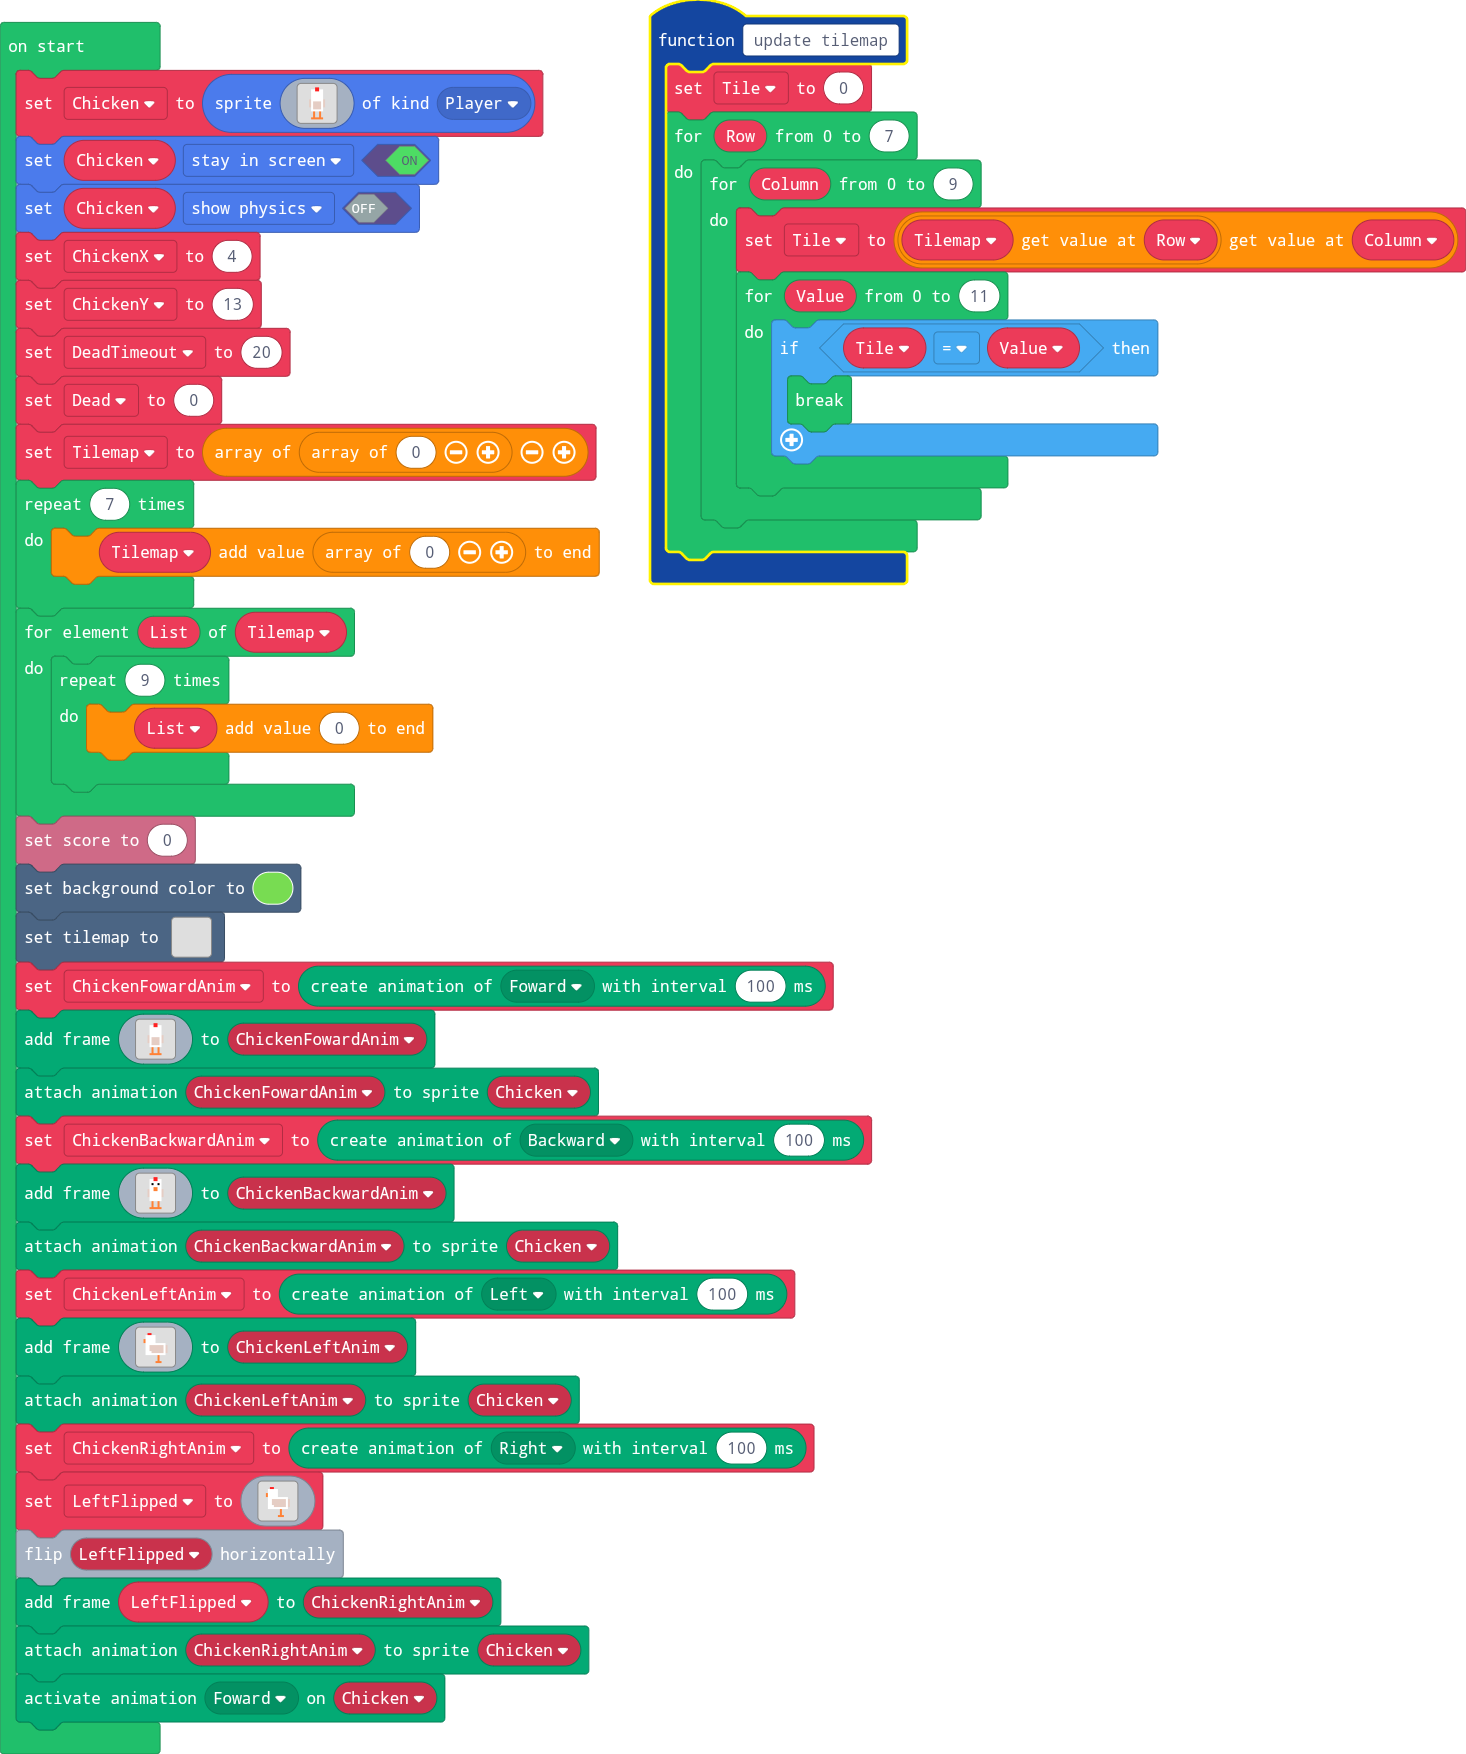
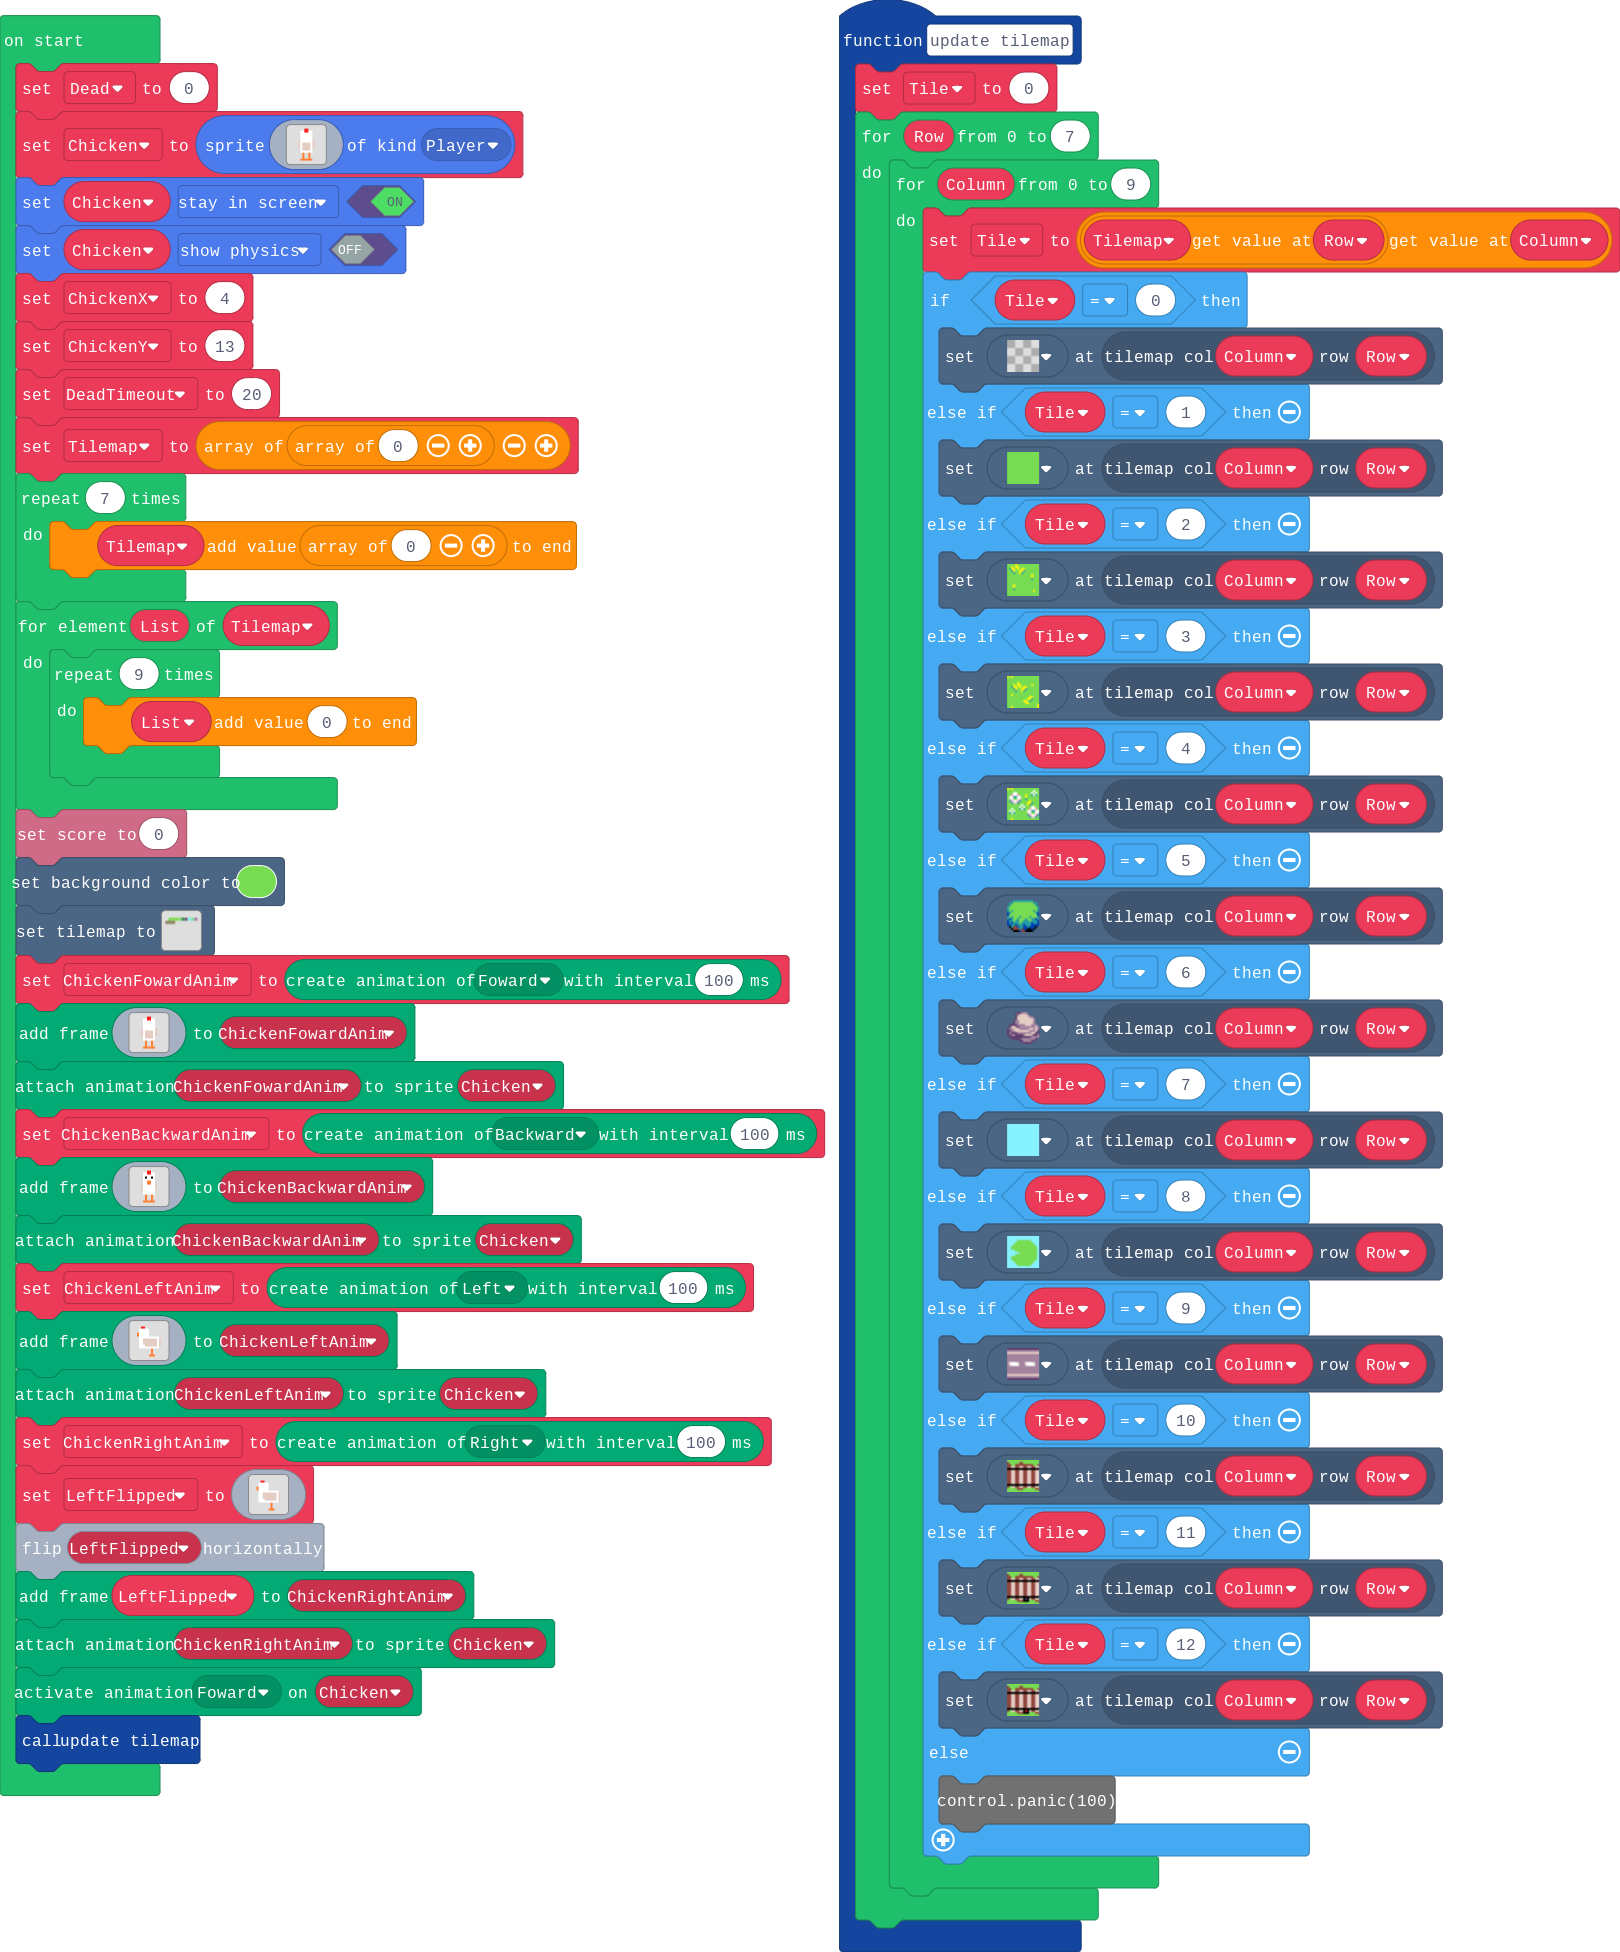
Finished update tilemap function

diff --git a/main.ts b/main.ts
@@ -7,21 +7,181 @@ enum ActionKind {
     Idle,
     Jumping
 }
+namespace myTiles {
+    //% blockIdentity=images._tile
+    export const tile0 = img`
+. . . . . . . . . . . . . . . . 
+. . . . . . . . . . . . . . . . 
+. . . . . . . . . . . . . . . . 
+. . . . . . . . . . . . . . . . 
+. . . . . . . . . . . . . . . . 
+. . . . . . . . . . . . . . . . 
+. . . . . . . . . . . . . . . . 
+. . . . . . . . . . . . . . . . 
+. . . . . . . . . . . . . . . . 
+. . . . . . . . . . . . . . . . 
+. . . . . . . . . . . . . . . . 
+. . . . . . . . . . . . . . . . 
+. . . . . . . . . . . . . . . . 
+. . . . . . . . . . . . . . . . 
+. . . . . . . . . . . . . . . . 
+. . . . . . . . . . . . . . . . 
+`
+    //% blockIdentity=images._tile
+    export const tile2 = img`
+7 7 7 7 7 7 7 7 7 7 7 7 7 7 7 7 
+7 7 7 7 7 7 7 7 7 7 7 7 7 7 7 7 
+7 7 7 7 7 7 7 7 7 7 7 7 7 7 7 7 
+7 7 7 7 7 7 7 7 7 7 7 7 7 7 7 7 
+7 7 7 7 7 7 7 7 7 7 7 7 7 7 7 7 
+7 7 7 7 7 7 7 7 7 7 7 7 7 7 7 7 
+7 7 7 7 7 7 7 7 7 7 7 7 7 7 7 7 
+7 7 7 7 7 7 7 7 7 7 7 7 7 7 7 7 
+7 7 7 7 7 7 7 7 7 7 7 7 7 7 7 7 
+7 7 7 7 7 7 7 7 7 7 7 7 7 7 7 7 
+7 7 7 7 7 7 7 7 7 7 7 7 7 7 7 7 
+7 7 7 7 7 7 7 7 7 7 7 7 7 7 7 7 
+7 7 7 7 7 7 7 7 7 7 7 7 7 7 7 7 
+7 7 7 7 7 7 7 7 7 7 7 7 7 7 7 7 
+7 7 7 7 7 7 7 7 7 7 7 7 7 7 7 7 
+7 7 7 7 7 7 7 7 7 7 7 7 7 7 7 7 
+`
+    //% blockIdentity=images._tile
+    export const tile3 = img`
+9 9 9 9 9 9 9 9 9 9 9 9 9 9 9 9 
+9 9 9 9 9 9 9 9 9 9 9 9 9 9 9 9 
+9 9 9 9 9 9 9 9 9 9 9 9 9 9 9 9 
+9 9 9 9 9 9 9 9 9 9 9 9 9 9 9 9 
+9 9 9 9 9 9 9 9 9 9 9 9 9 9 9 9 
+9 9 9 9 9 9 9 9 9 9 9 9 9 9 9 9 
+9 9 9 9 9 9 9 9 9 9 9 9 9 9 9 9 
+9 9 9 9 9 9 9 9 9 9 9 9 9 9 9 9 
+9 9 9 9 9 9 9 9 9 9 9 9 9 9 9 9 
+9 9 9 9 9 9 9 9 9 9 9 9 9 9 9 9 
+9 9 9 9 9 9 9 9 9 9 9 9 9 9 9 9 
+9 9 9 9 9 9 9 9 9 9 9 9 9 9 9 9 
+9 9 9 9 9 9 9 9 9 9 9 9 9 9 9 9 
+9 9 9 9 9 9 9 9 9 9 9 9 9 9 9 9 
+9 9 9 9 9 9 9 9 9 9 9 9 9 9 9 9 
+9 9 9 9 9 9 9 9 9 9 9 9 9 9 9 9 
+`
+    //% blockIdentity=images._tile
+    export const tile4 = img`
+9 9 9 9 9 9 9 9 9 9 9 9 9 9 9 9 
+9 9 9 9 9 9 9 9 9 9 9 9 9 9 9 9 
+9 9 9 9 9 7 7 7 7 7 7 7 9 9 9 9 
+9 9 9 9 7 7 7 7 7 7 7 7 7 9 9 9 
+9 9 9 7 7 7 7 7 7 7 7 7 7 7 9 9 
+9 9 7 7 7 7 7 7 7 7 7 7 7 7 7 9 
+9 9 7 7 7 7 7 7 7 7 7 7 7 7 7 9 
+9 9 9 9 7 7 7 7 7 7 7 7 7 7 7 9 
+9 9 9 9 9 9 7 7 7 7 7 7 7 7 7 9 
+9 9 9 9 7 7 7 7 7 7 7 7 7 7 7 9 
+9 9 7 7 7 7 7 7 7 7 7 7 7 7 7 9 
+9 9 7 7 7 7 7 7 7 7 7 7 7 7 7 9 
+9 9 9 7 7 7 7 7 7 7 7 7 7 7 9 9 
+9 9 9 9 7 7 7 7 7 7 7 7 7 9 9 9 
+9 9 9 9 9 7 7 7 7 7 7 7 9 9 9 9 
+9 9 9 9 9 9 9 9 9 9 9 9 9 9 9 9 
+`
+    //% blockIdentity=images._tile
+    export const tile5 = img`
+7 7 7 7 7 7 7 7 7 7 7 7 7 7 7 7 
+e 7 7 7 7 7 e e 7 7 7 7 7 7 7 7 
+e e 7 7 e e e e e e e e e 7 7 e 
+e e d d e e d d e e d d e e d d 
+f f f f f f f f f f f f f f f f 
+e e d d e e d d e e d d e e d d 
+e e d d e e d d e e d d e e d d 
+e e d d e e d d e e d d e e d d 
+e e d d e e d d e e d d e e d d 
+e e d d e e d d e e d d e e d d 
+e e d d e e d d e e d d e e d d 
+e e d d e e d d e e d d e e d d 
+f f f f f f f f f f f f f f f f 
+e 7 d d e e d d e e d d e e d d 
+7 7 7 7 7 e e e 7 7 7 7 7 7 e e 
+7 7 7 7 7 7 7 7 7 7 7 7 7 7 7 7 
+`
+    //% blockIdentity=images._tile
+    export const tile6 = img`
+7 7 7 7 7 7 7 7 7 7 7 7 7 7 7 7 
+e 7 7 7 7 7 e e 7 7 7 7 7 7 7 7 
+e e 7 7 e e e e e e e e e 7 7 e 
+e e d d e e d d e e d d e e d d 
+f f f f f f f f f f f f f f f f 
+e e d d e e d d e e d d e e d d 
+e e d d e e d d e e d d e e d d 
+e e d d e e d d e e d d e e d d 
+e e d d e e d d e e d d e e d d 
+e e d d e e d d e e d d e e d d 
+e e d d e e d d e e d d e e d d 
+e e d d e e d d e e d d e e d d 
+f f f f f f f f f f f f f f f f 
+e 7 d d e e d d f c f d e e d d 
+7 7 7 7 7 e e e f f f 7 7 7 e e 
+7 7 7 7 7 7 7 7 7 7 7 7 7 7 7 7 
+`
+    //% blockIdentity=images._tile
+    export const tile7 = img`
+7 7 7 7 7 7 7 7 7 7 7 7 7 7 7 7 
+e 7 7 7 7 7 e e 7 7 7 7 7 7 7 7 
+e e 7 7 e e e e e e e e e 7 7 e 
+e e d d e e d d e e d d e e d d 
+f f f f f f f f f f f f f f f f 
+e e d d e e d d e e d d e e d d 
+e e d d e e d d e e d d e e d d 
+e e d d e e d d e e d d e e d d 
+e e d d e e d d e e d d e e d d 
+e e d d e e d d e e d d e e d d 
+e e d d e e d d e e d d e e d d 
+e e d d e e d d e e d d e e d d 
+f f f f f f f f f f f f f f f f 
+e 7 d d e e d d f 2 f d e e d d 
+7 7 7 7 7 e e e f f f 7 7 7 e e 
+7 7 7 7 7 7 7 7 7 7 7 7 7 7 7 7 
+`
+}
 function update_tilemap () {
     Tile = 0
     for (let Row = 0; Row <= 7; Row++) {
         for (let Column = 0; Column <= 9; Column++) {
             Tile = Tilemap[Row][Column]
-            for (let Value = 0; Value <= 11; Value++) {
-                if (Tile == Value) {
-                    break;
-                }
+            if (Tile == 0) {
+                tiles.setTileAt(tiles.getTileLocation(Column, Row), myTiles.tile0)
+            } else if (Tile == 1) {
+                tiles.setTileAt(tiles.getTileLocation(Column, Row), myTiles.tile2)
+            } else if (Tile == 2) {
+                tiles.setTileAt(tiles.getTileLocation(Column, Row), sprites.castle.tileGrass1)
+            } else if (Tile == 3) {
+                tiles.setTileAt(tiles.getTileLocation(Column, Row), sprites.castle.tileGrass3)
+            } else if (Tile == 4) {
+                tiles.setTileAt(tiles.getTileLocation(Column, Row), sprites.castle.tileGrass2)
+            } else if (Tile == 5) {
+                tiles.setTileAt(tiles.getTileLocation(Column, Row), sprites.builtin.forestTiles0)
+            } else if (Tile == 6) {
+                tiles.setTileAt(tiles.getTileLocation(Column, Row), sprites.castle.rock0)
+            } else if (Tile == 7) {
+                tiles.setTileAt(tiles.getTileLocation(Column, Row), myTiles.tile3)
+            } else if (Tile == 8) {
+                tiles.setTileAt(tiles.getTileLocation(Column, Row), myTiles.tile4)
+            } else if (Tile == 9) {
+                tiles.setTileAt(tiles.getTileLocation(Column, Row), sprites.vehicle.roadHorizontal)
+            } else if (Tile == 10) {
+                tiles.setTileAt(tiles.getTileLocation(Column, Row), myTiles.tile5)
+            } else if (Tile == 11) {
+                tiles.setTileAt(tiles.getTileLocation(Column, Row), myTiles.tile6)
+            } else if (Tile == 12) {
+                tiles.setTileAt(tiles.getTileLocation(Column, Row), myTiles.tile7)
+            } else {
+                control.panic(100)
             }
         }
     }
 }
 let Tile = 0
 let Tilemap: number[][] = []
+let Dead = 0
 let Chicken = sprites.create(img`
 . . . . . . . 2 2 . . . . . . . 
 . . . . . 1 1 2 2 1 1 . . . . . 
@@ -45,7 +205,6 @@ Chicken.setFlag(SpriteFlag.ShowPhysics, false)
 let ChickenX = 4
 let ChickenY = 13
 let DeadTimeout = 20
-let Dead = 0
 Tilemap = [[0]]
 for (let index = 0; index < 7; index++) {
     Tilemap.push([0])
@@ -58,26 +217,18 @@ for (let List of Tilemap) {
 info.setScore(0)
 scene.setBackgroundColor(7)
 tiles.setTilemap(tiles.createTilemap(
-            hex`1000100000000000000000000000000000000000000000000000000000000000000000000000000000000000000000000000000000000000000000000000000000000000000000000000000000000000000000000000000000000000000000000000000000000000000000000000000000000000000000000000000000000000000000000000000000000000000000000000000000000000000000000000000000000000000000000000000000000000000000000000000000000000000000000000000000000000000000000000000000000000000000000000000000000000000000000000000000000000000000000000000000000000000000000000000000000000`,
[1 lines of base64/hex data omitted]
             img`
-. . . . . . . . . . . . . . . . 
-. . . . . . . . . . . . . . . . 
-. . . . . . . . . . . . . . . . 
-. . . . . . . . . . . . . . . . 
-. . . . . . . . . . . . . . . . 
-. . . . . . . . . . . . . . . . 
-. . . . . . . . . . . . . . . . 
-. . . . . . . . . . . . . . . . 
-. . . . . . . . . . . . . . . . 
-. . . . . . . . . . . . . . . . 
-. . . . . . . . . . . . . . . . 
-. . . . . . . . . . . . . . . . 
-. . . . . . . . . . . . . . . . 
-. . . . . . . . . . . . . . . . 
-. . . . . . . . . . . . . . . . 
-. . . . . . . . . . . . . . . . 
+. . . . . . . . . . 
+. . . . . . . . . . 
+. . . . . . . . . . 
+. . . . . . . . . . 
+. . . . . . . . . . 
+. . . . . . . . . . 
+. . . . . . . . . . 
+. . . . . . . . . . 
 `,
-            [],
+            [myTiles.tile0,myTiles.tile2,myTiles.tile3,myTiles.tile4,sprites.castle.tileGrass1,sprites.castle.tileGrass3,sprites.castle.tileGrass2,sprites.builtin.forestTiles0,sprites.castle.rock0,myTiles.tile5,sprites.vehicle.roadHorizontal,myTiles.tile6,myTiles.tile7],
             TileScale.Sixteen
         ))
 let ChickenFowardAnim = animation.createAnimation(ActionKind.Foward, 100)
@@ -163,3 +314,4 @@ LeftFlipped.flipX()
 ChickenRightAnim.addAnimationFrame(LeftFlipped)
 animation.attachAnimation(Chicken, ChickenRightAnim)
 animation.setAction(Chicken, ActionKind.Foward)
+update_tilemap()
